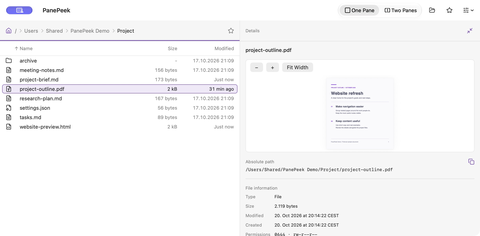
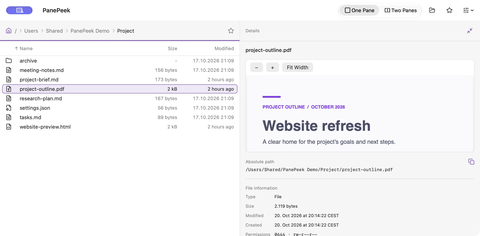
Fill the PDF screenshot preview width

diff --git a/website/index.html b/website/index.html
@@ -181,7 +181,7 @@
                           assets/app-preview-pdf-1600.webp 1600w,
                           assets/app-preview-pdf.webp 2436w"
                   sizes="(max-width: 580px) calc(100vw - 2.5rem - 2px), (max-width: 850px) calc(100vw - 3rem - 2px), min(542px, calc(50vw - 3rem - 2px))"
-                  width="2436" height="1200" alt="PanePeek in light mode, showing a complete PDF page and native zoom controls beside the shared demo Project folder." loading="lazy">
+                  width="2436" height="1200" alt="PanePeek in light mode, showing a PDF fitted to the preview width and native zoom controls beside the shared demo Project folder." loading="lazy">
               </span>
             </a>
             <figcaption><span>PDF pages with scrolling and zoom.</span><span>App screenshot · Sample file</span></figcaption>

diff --git a/website/README.md b/website/README.md
@@ -36,7 +36,7 @@ After publication, verify that crawlers can fetch the page and image, inspect ca
 
 `assets/peeking-p.svg` is an unchanged copy of the [accepted logo source](../agent-paper-trail/design/001-mvp/README.md).
 
-`app-browse.png` and `app-browse-dark.png` show native Light and Macchiato Markdown previews with highlighted YAML front matter beside the shared fictional Project folder. `app-preview-pdf.png` shows a read-only PDF page with native zoom controls; `app-preview-html.png` shows a styled local HTML page. These captures use the current app source and share 2436 × 1200-pixel window geometry. PNG masters preserve the decoded native capture pixels, colour profile and EXIF, without retouching. The captures contain no cursors or glows.
+`app-browse.png` and `app-browse-dark.png` show native Light and Macchiato Markdown previews with highlighted YAML front matter beside the shared fictional Project folder. `app-preview-pdf.png` shows a read-only PDF fitted to the preview width, with native zoom controls; `app-preview-html.png` shows a styled local HTML page. These captures use the current app source and share 2436 × 1200-pixel window geometry. PNG masters preserve the decoded native capture pixels, colour profile and EXIF, without retouching. The captures contain no cursors or glows.
 
 `app-edit-dark.png` and `app-edit-light.png` show highlighted TypeScript TSX and Python drafts beside a folder of fictional code and configuration files. Both are native PanePeek 1.0.0 (5) captures at 2436 × 1200 pixels, prepared using keyboard input so no cursor or glow appears. PNG exports preserve the decoded capture pixels, without retouching. Both editing appearances remain visible in either theme; their frames and captions align.
 

diff --git a/agent-paper-trail/specs/2026-10-17-website/evidence/rendering-content.md b/agent-paper-trail/specs/2026-10-17-website/evidence/rendering-content.md
@@ -6,4 +6,4 @@ closed: "2026-10-20"
 
 # Rendering content
 
-Native Markdown heroes and PDF/HTML examples use matching 2436 × 1200 captures without cursors. All homepage sections use wrap directly; Edit and Preview share a full-width background and section-space padding, with a short format paragraph linking to Support guidance after Syntax highlighting. Hosted delivery, VoiceOver, actual browser enlargement and OS-theme switching remain unverified.
+Native Markdown heroes and PDF/HTML examples use matching 2436 × 1200 captures without cursors; the PDF sample fills the preview width. All homepage sections use wrap directly; Edit and Preview share a full-width background and section-space padding, with a short format paragraph linking to Support guidance after Syntax highlighting. Hosted delivery, VoiceOver, actual browser enlargement and OS-theme switching remain unverified.
